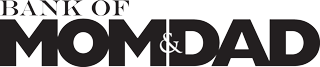
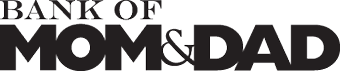
home page revised

diff --git a/app/assets/stylesheets/style.scss b/app/assets/stylesheets/style.scss
@@ -2,10 +2,12 @@
 
 /*---------------  Application & Nav  ---------------*/
 
-body { background-color: $light-accent; background: url('gray_jean.png'); font-family: $main-sans-reg; font-weight: 400;}
+html {margin: 0; padding: 0; }
+body { background-color: $light-accent; background: url('gray_jean.png'); font-family: $main-sans-reg; font-weight: 400; margin: 0;}
 #outer_box { }
 .container {  }
 
+#top-border { width: 100%; background-color: $nav; height: 10px; }
 #logo {  }
 .top-bar {  }
 nav ul li { color: white; padding: 0 10px;}
@@ -15,12 +17,6 @@ nav a:hover { color: $link-light-hover;}
 footer { text-align: center; }
 
 /*---------------  Globals  ---------------*/
-
-
-.home_header { font-size: 30px; font-family: $main-sans-bold; text-align: center; }
-.home_info { font-size: 20px; font-family: $main-sans-reg; text-align: center; }
-.home_register { font-size: 30px; font-family: $main-sans-bold; text-align: center; }
-
 .title { font-size: 30px; font-weight: 700;  }
 .add { font-size: 16px; font-weight: bold; margin-left: 10px; }
 .edit { font-size: 16px; font-weight: bold; margin-left: 10px; }
@@ -34,6 +30,11 @@ a:hover { color: $link-dark-hover;}
 p { font-family: $main-sans-reg; }
 h1, h2, h3, h4, h5, h6 { font-family: $main-sans-bold; font-weight: 700;}
 
+/*---------------  Home Page  ---------------*/
+#featured {  }
+#home_box1 { font-size: 20px; font-family: $main-sans-reg; text-align: left; padding: 10px 10px 3px 20px; background-color: $nav; color: white; }
+#home_box2 a { width: 100%; font-size: 22px; font-family: $main-sans-bold; text-align: center; padding: 17px 0 0 0; background-color: $link-light-reg; color: white; display: block; margin: 10px 0 0 0; height: 56px; }
+#home_box2 a:hover { color: $nav; }
 
 /*---------------  Tables: Accounts  ---------------*/
 

diff --git a/app/assets/stylesheets/structure.scss b/app/assets/stylesheets/structure.scss
@@ -3,8 +3,8 @@
 #outer_box { margin-top: 20px; }
 .container { width: 1080px; margin: 0 auto; padding: 0 30px; }
 
-#logo { width: 320px; height: 67px; background-image:url('BankofMD_outline.png'); background-repeat:no-repeat; margin: 25px auto 0 auto; }
-.top-bar { margin-top: 45px; padding-right: 10px; }
+#logo { width: 340px; height: 71px; background-image:url('BankofMD_outline.png'); background-repeat:no-repeat; margin: 25px 0 0 0; }
+.top-bar { margin-top: 50px; padding-right: 10px; margin-left: 20px; }
 nav span { margin: 0 20px; }
 nav a { padding: 0 13px; float: right; }
 
@@ -14,6 +14,12 @@ nav a { padding: 0 13px; float: right; }
 label { margin-bottom: 7px; }
 
 footer { height: 30px; margin-top: 30px; }
+
+/*---------------  Home Page  ---------------*/
+#featured { width: 736px; height: 400px; }
+#home_box1 {  }
+#home_box2 {  }
+
 
 /*---------------  Tables: Accounts  ---------------*/
 

diff --git a/app/assets/stylesheets/_colors-and-fonts.scss b/app/assets/stylesheets/_colors-and-fonts.scss
@@ -2,7 +2,7 @@
 
 $light-accent: #F5F5F5;
 $main-bkgrnd: white;
-
+$nav: #222222;
 
 $link-light-reg: #f22540;
 $link-light-hover: white;
